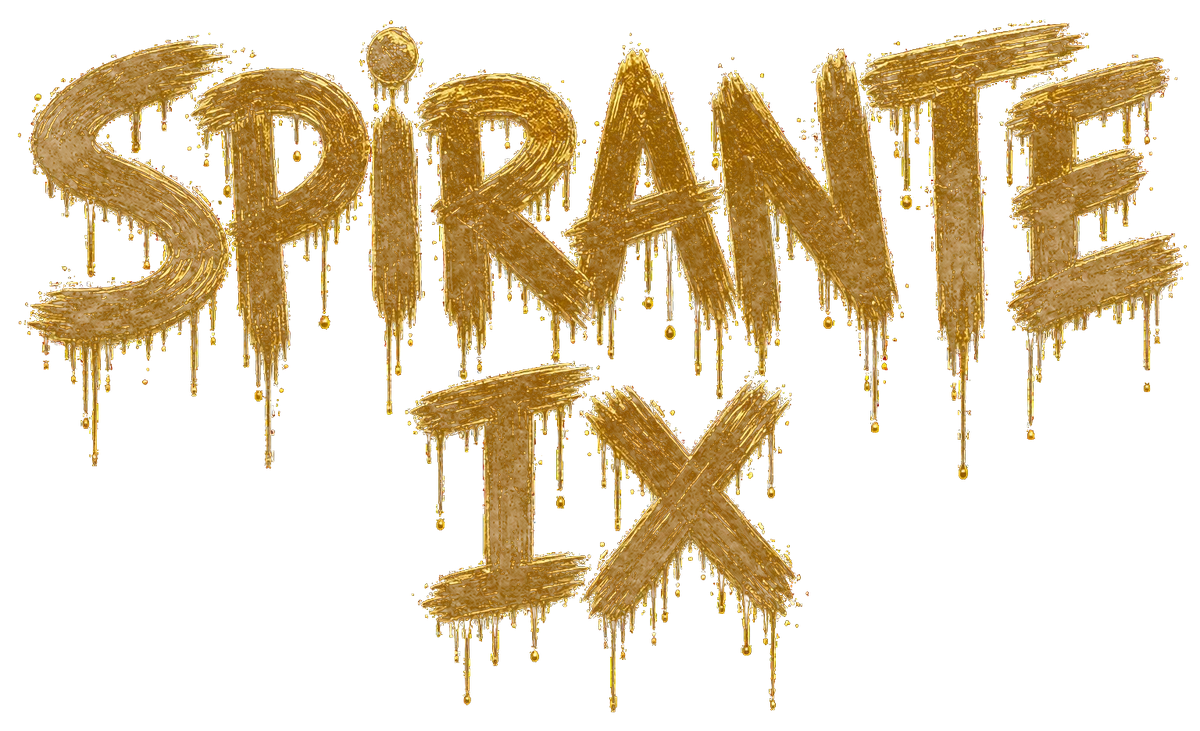
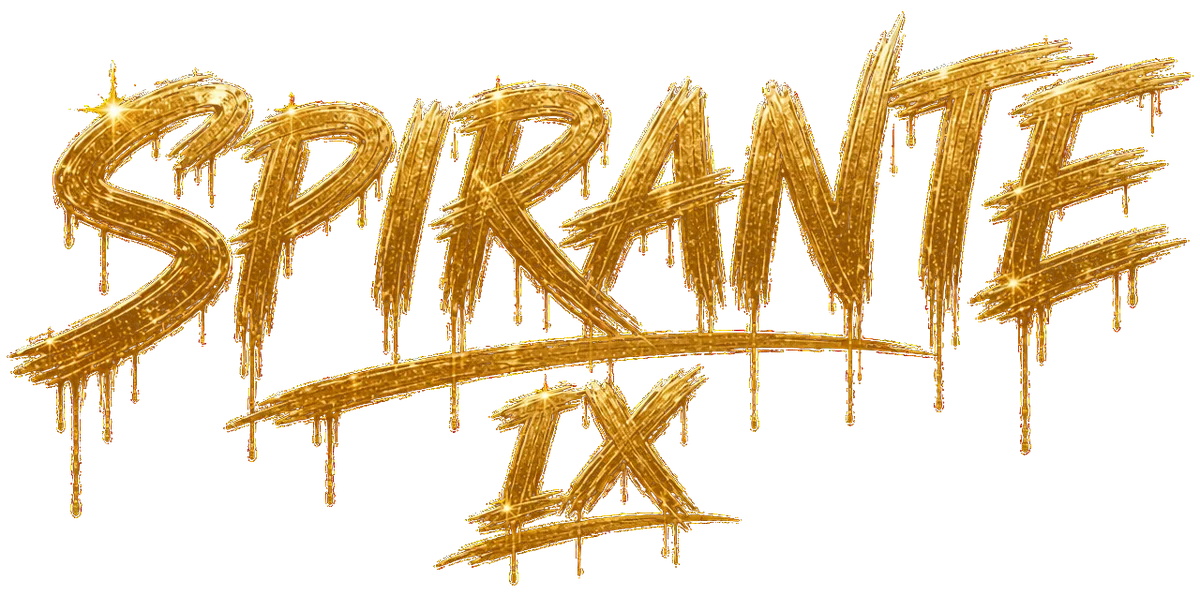
Nyito: uj SPIRANTE IX arany felirat (ElevenLabs, fekete hatter kivagva, atlatszo webp 1200/1080/720, ?v=5, height 596); intro bekezdes szovege frissitve

diff --git a/index.html b/index.html
@@ -1131,7 +1131,7 @@ html.menu-lock{overflow:hidden}
       <span class="sticker" aria-hidden="true"><svg viewBox="0 0 24 24"><path d="M4 12h15M13 6l6 6-6 6"/></svg></span>
     </figure>
     <div class="half__content">
-      <img class="slogan__img slogan__img--ix" src="media/slogan-spirante-ix-1080.webp?v=4" srcset="media/slogan-spirante-ix-720.webp?v=4 720w, media/slogan-spirante-ix-1080.webp?v=4 1080w, media/slogan-spirante-ix.webp?v=4 1200w" sizes="(max-width:767px) 46vw, 410px" width="1200" height="731" decoding="async" alt="SPIRANTE IX">
+      <img class="slogan__img slogan__img--ix" src="media/slogan-spirante-ix-1080.webp?v=5" srcset="media/slogan-spirante-ix-720.webp?v=5 720w, media/slogan-spirante-ix-1080.webp?v=5 1080w, media/slogan-spirante-ix.webp?v=5 1200w" sizes="(max-width:767px) 46vw, 410px" width="1200" height="596" decoding="async" alt="SPIRANTE IX">
     </div>
   </a>
 
@@ -1226,7 +1226,7 @@ html.menu-lock{overflow:hidden}
   <section class="sec intro" aria-label="Az ICON Spirante IX">
     <div class="wrap intro__in">
       <div class="intro__txt">
-        <p class="intro__p" data-reveal>Spirante IX, mint a&nbsp;minőségi fehérbor és a&nbsp;spirit ital izgalmas találkozása, mint a&nbsp;vodka vagy a&nbsp;gin, különleges ízek hozzáadásával lett megalkotva! Karakteres alkoholtartalommal (9%) és erőteljes szénsavassággal!</p>
+        <p class="intro__p" data-reveal>Spirante IX, minőségi válogatott szőlőből készült és a&nbsp;SPIRIT italok izgalmas találkozása! A&nbsp;vodka vagy a&nbsp;gin és a&nbsp;különleges ízek hozzáadásával tette ikonikussá és alkotta meg ezt a&nbsp;karakteres alkoholtartalommal (9%) és erőteljes szénsavassággal rabul ejtő világot!</p>
         <p class="intro__p" data-reveal>Egyedi és megismételhetetlen ízvilág, amivel az&nbsp;alkohol világában egy új kategóriát alkottunk neked!</p>
       </div>
       <p class="intro__cta" data-reveal>Keresd-bontsd-élvezd!</p>
